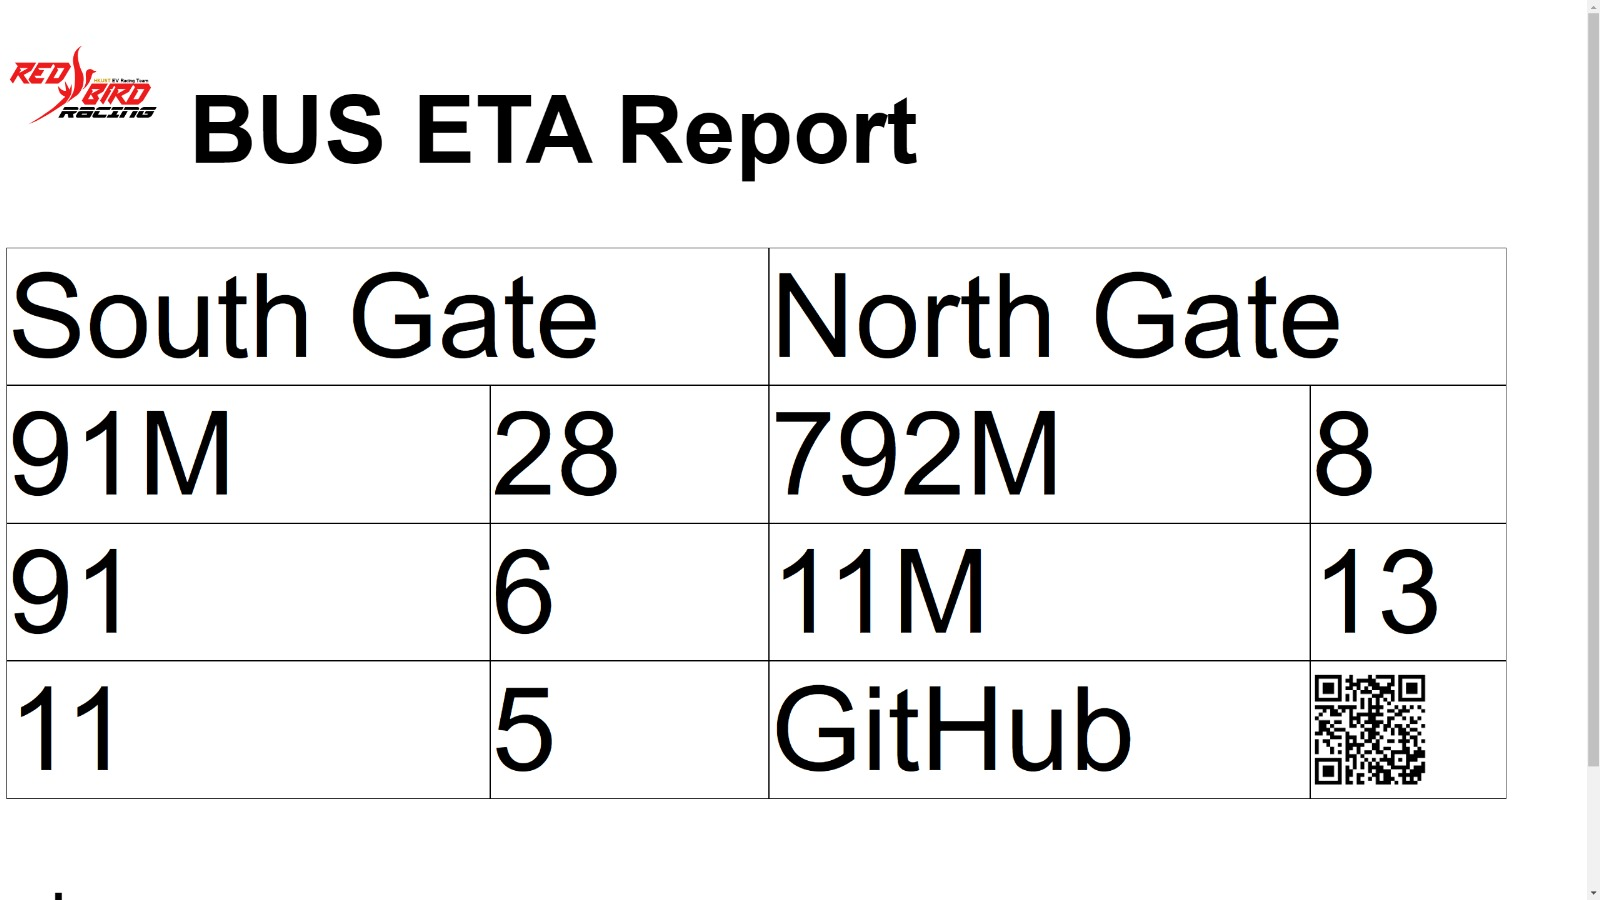
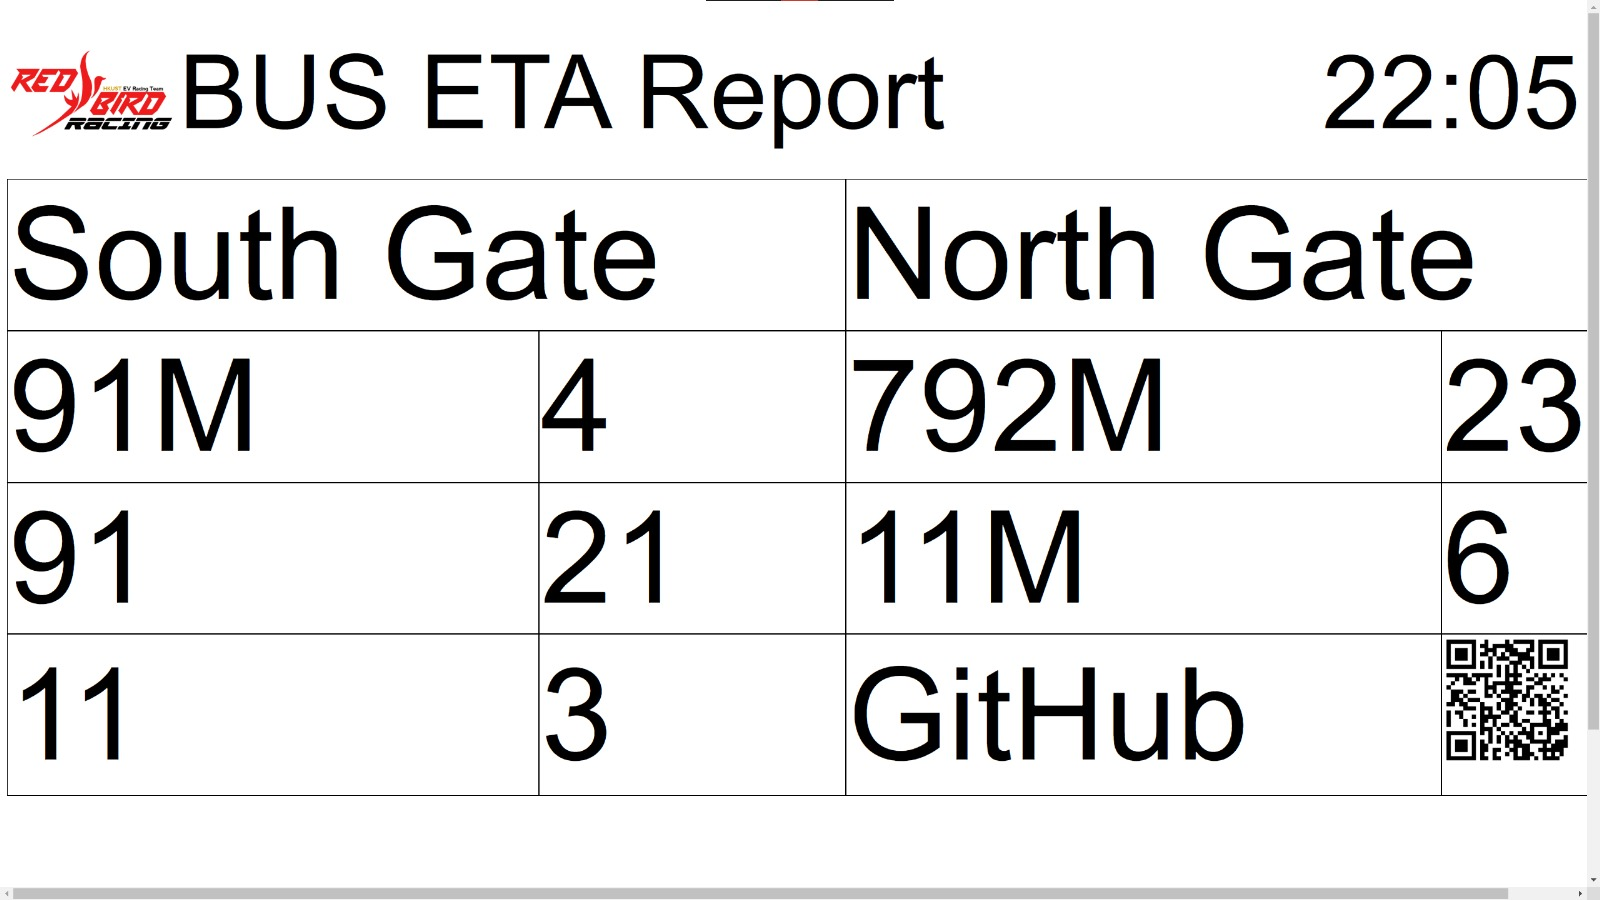
changed screenshot

diff --git a/readme.md b/readme.md
@@ -10,7 +10,7 @@ Made by marco lk network and Nicholas did some shit to it
 ![Screenshot](screenshot.jpg)
 Meant to be used on a 1080p monitor, but the screenshot was taken with a 1440p monitor.
 
-Clock function coming soon
+Clock function is here.
 
 Citybus shit
 <https://www.citybus.com.hk/datagovhk/bus_eta_api_specifications.pdf>
